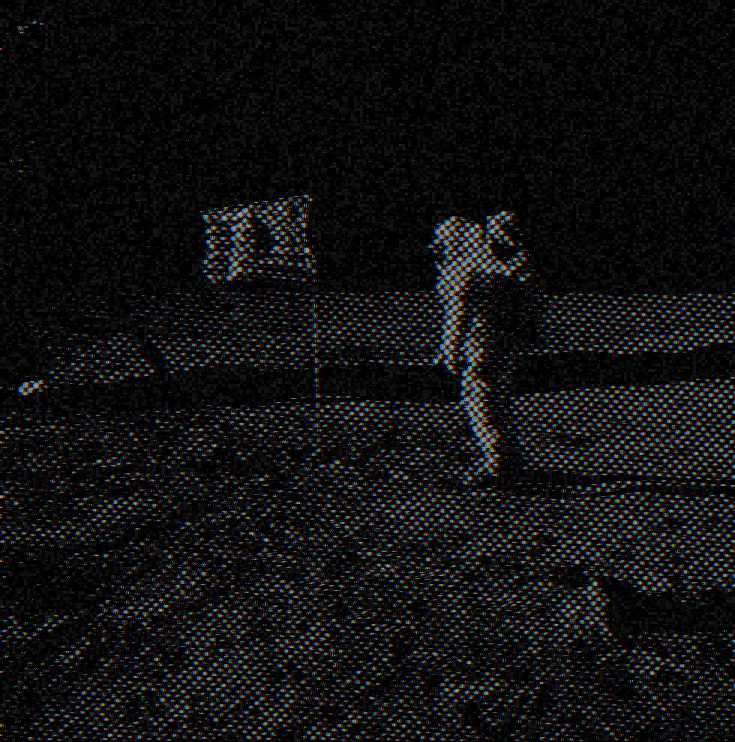
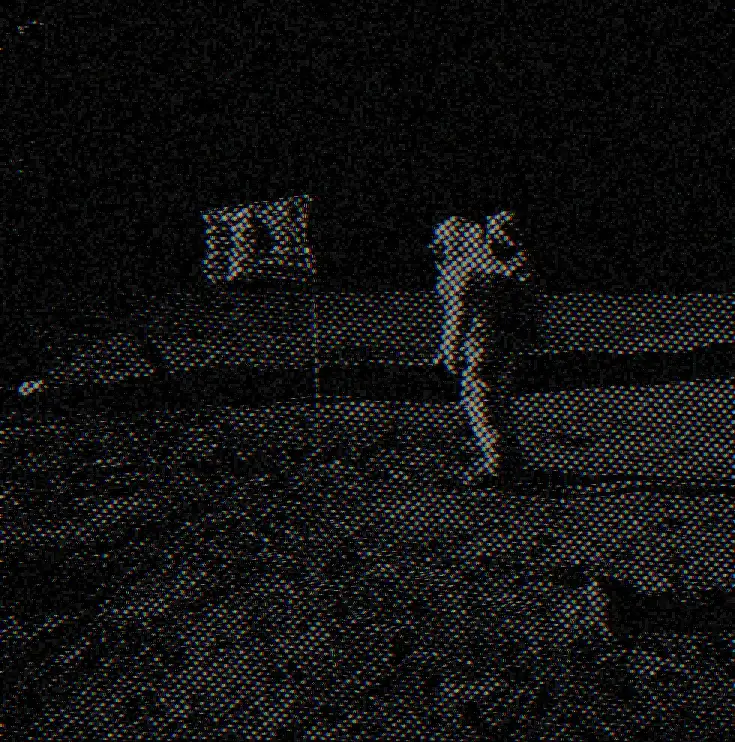
performance improvement

diff --git a/components/sections/Hero.tsx b/components/sections/Hero.tsx
@@ -18,10 +18,10 @@ export function Hero() {
   return (
     <section
       id="hero"
-      className="min-h-screen relative overflow-hidden bg-black flex items-center"
+      className="min-h-screen relative overflow-hidden bg-black flex items-center bg-[url('/mobile-hero-bg.webp')] bg-cover bg-center md:bg-none"
     >
-      {/* PrismaticBurst Background */}
-      <div className="absolute inset-0 z-0">
+      {/* PrismaticBurst Background - Hidden on mobile */}
+      <div className="absolute inset-0 z-0 hidden md:block">
         <PrismaticBurst
           intensity={2.5}
           speed={0.3}

diff --git a/app/waitlist/page.tsx b/app/waitlist/page.tsx
@@ -130,7 +130,6 @@ export default function WaitlistPage() {
                             alt="ASCII art of a rocket launch"
                             fill
                             className="object-cover"
-                            priority
                         />
                     </div>
                 </div>

diff --git a/app/waitlist/success/page.tsx b/app/waitlist/success/page.tsx
@@ -73,7 +73,6 @@ export default function WaitlistSuccessPage() {
                             alt="ASCII art of a rocket launch"
                             fill
                             className="object-cover"
-                            priority
                         />
                     </div>
                 </div>